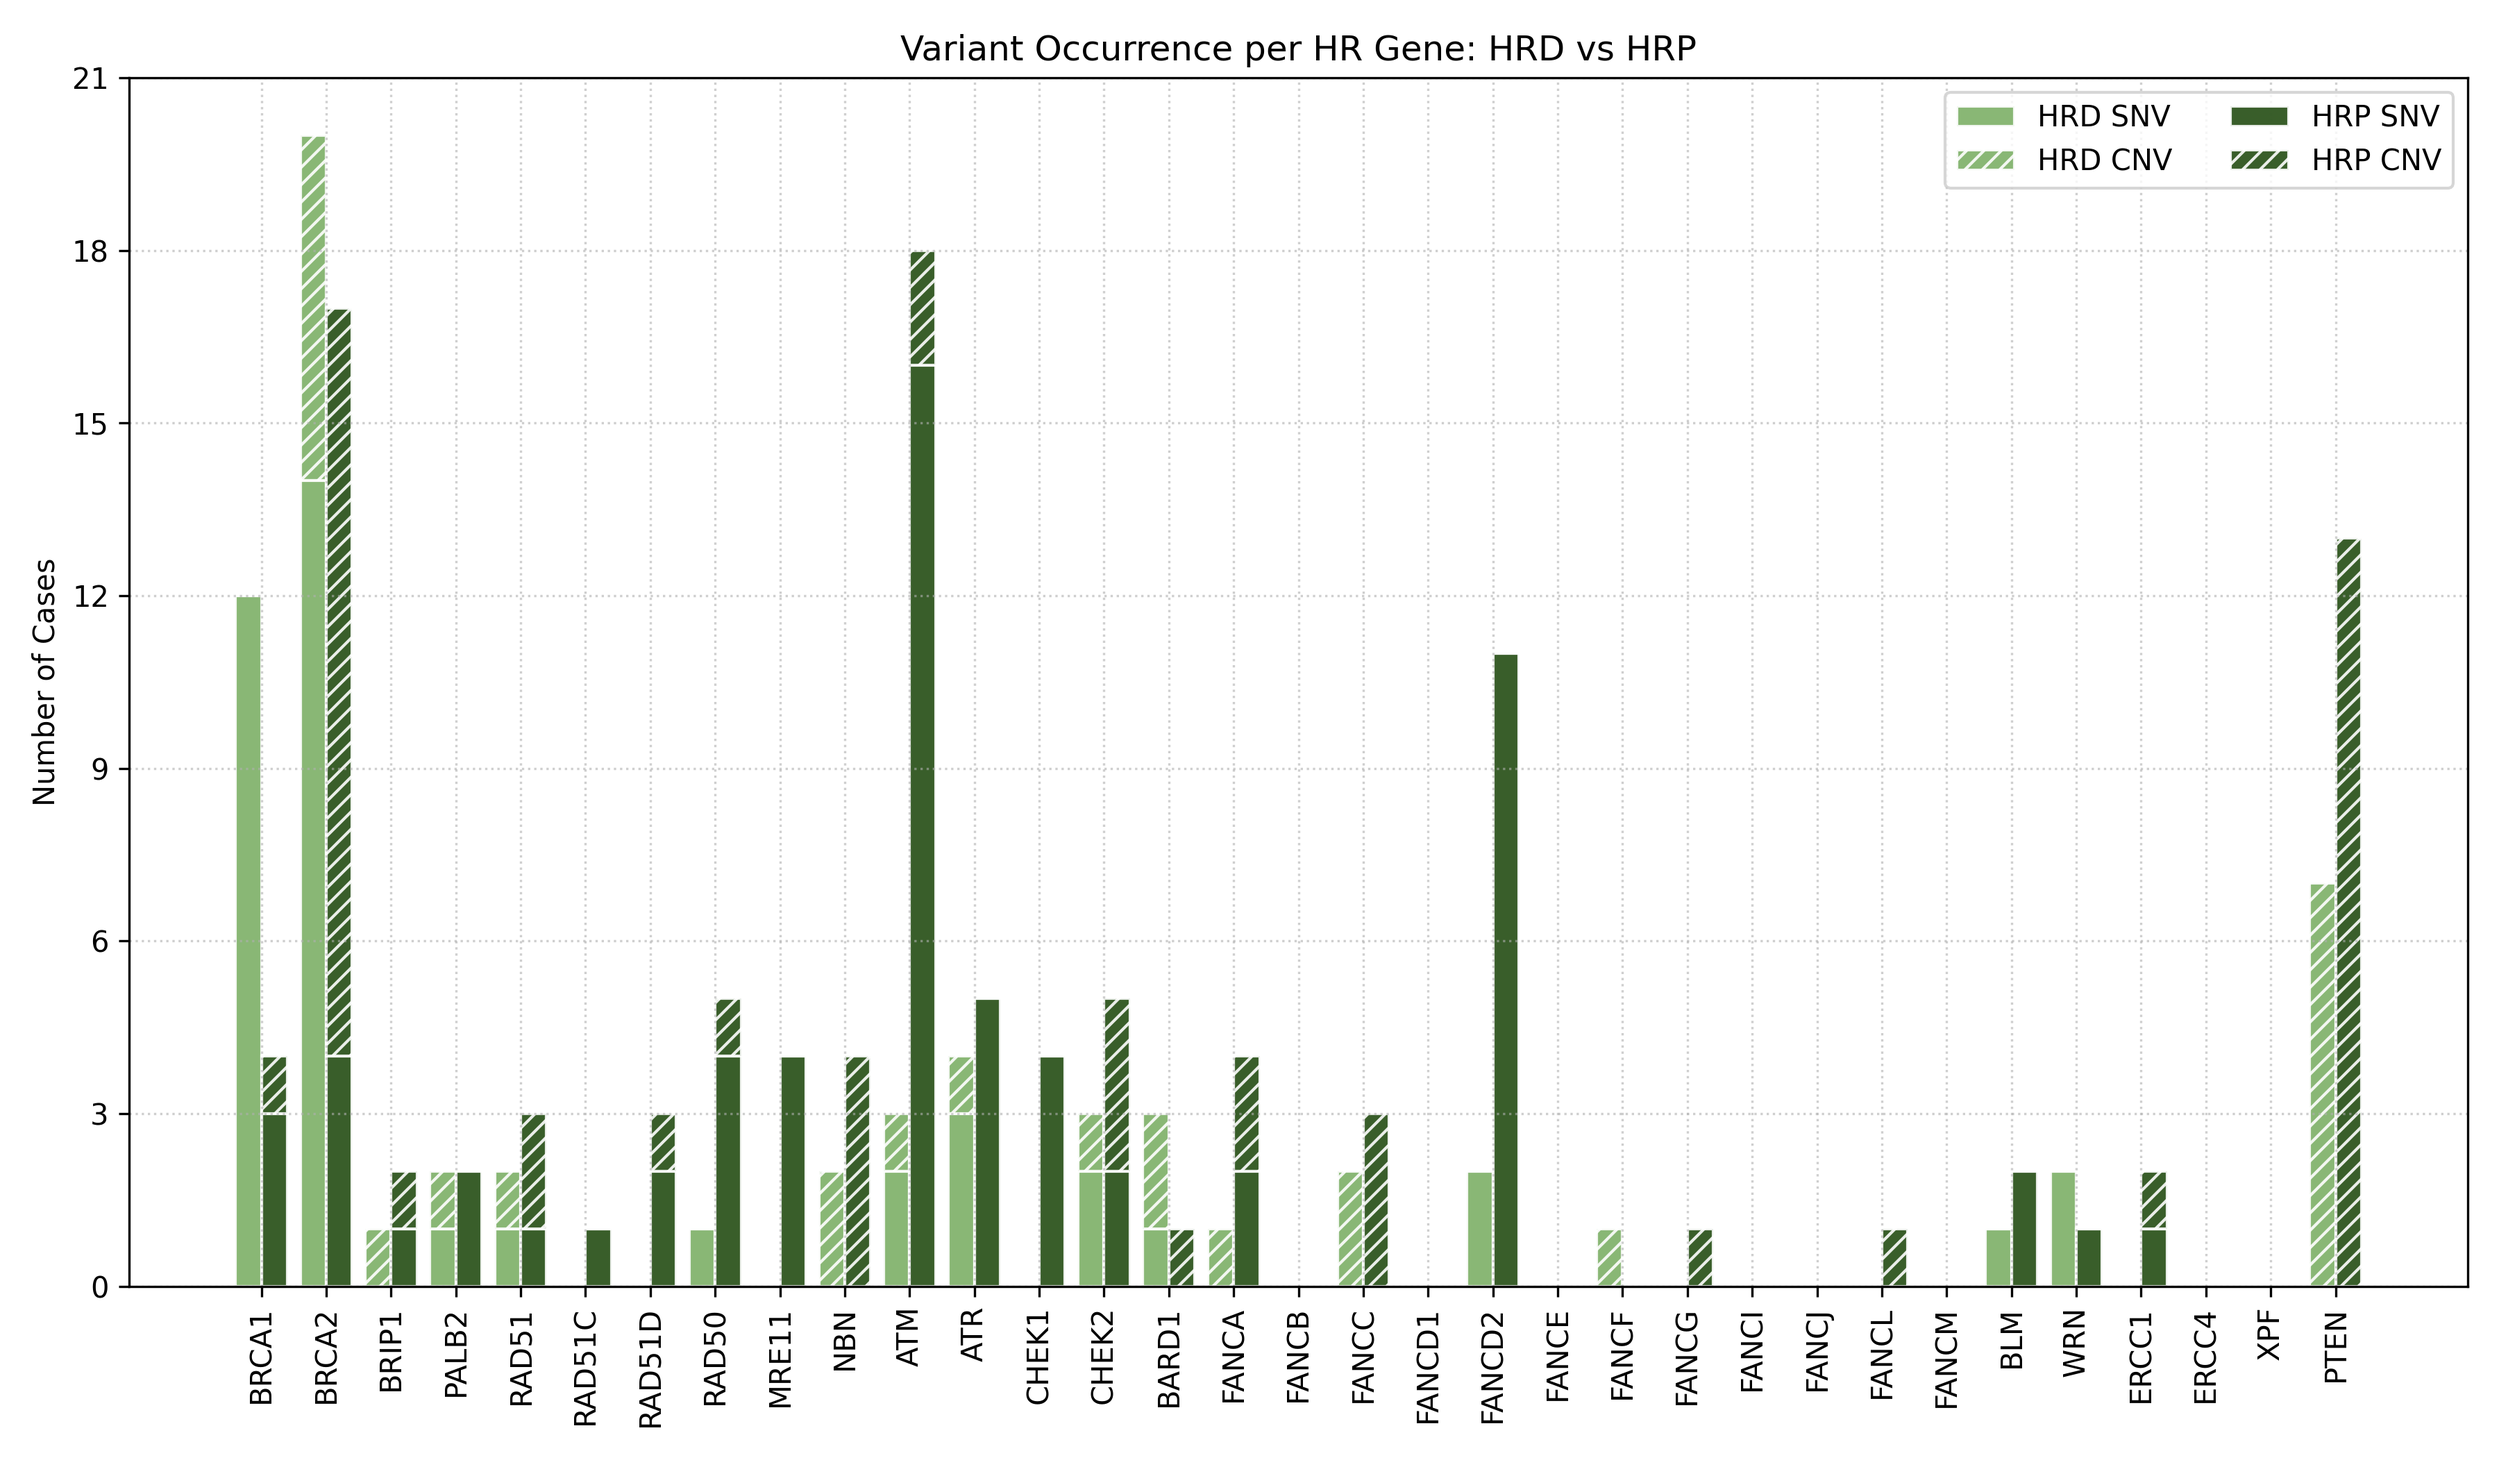
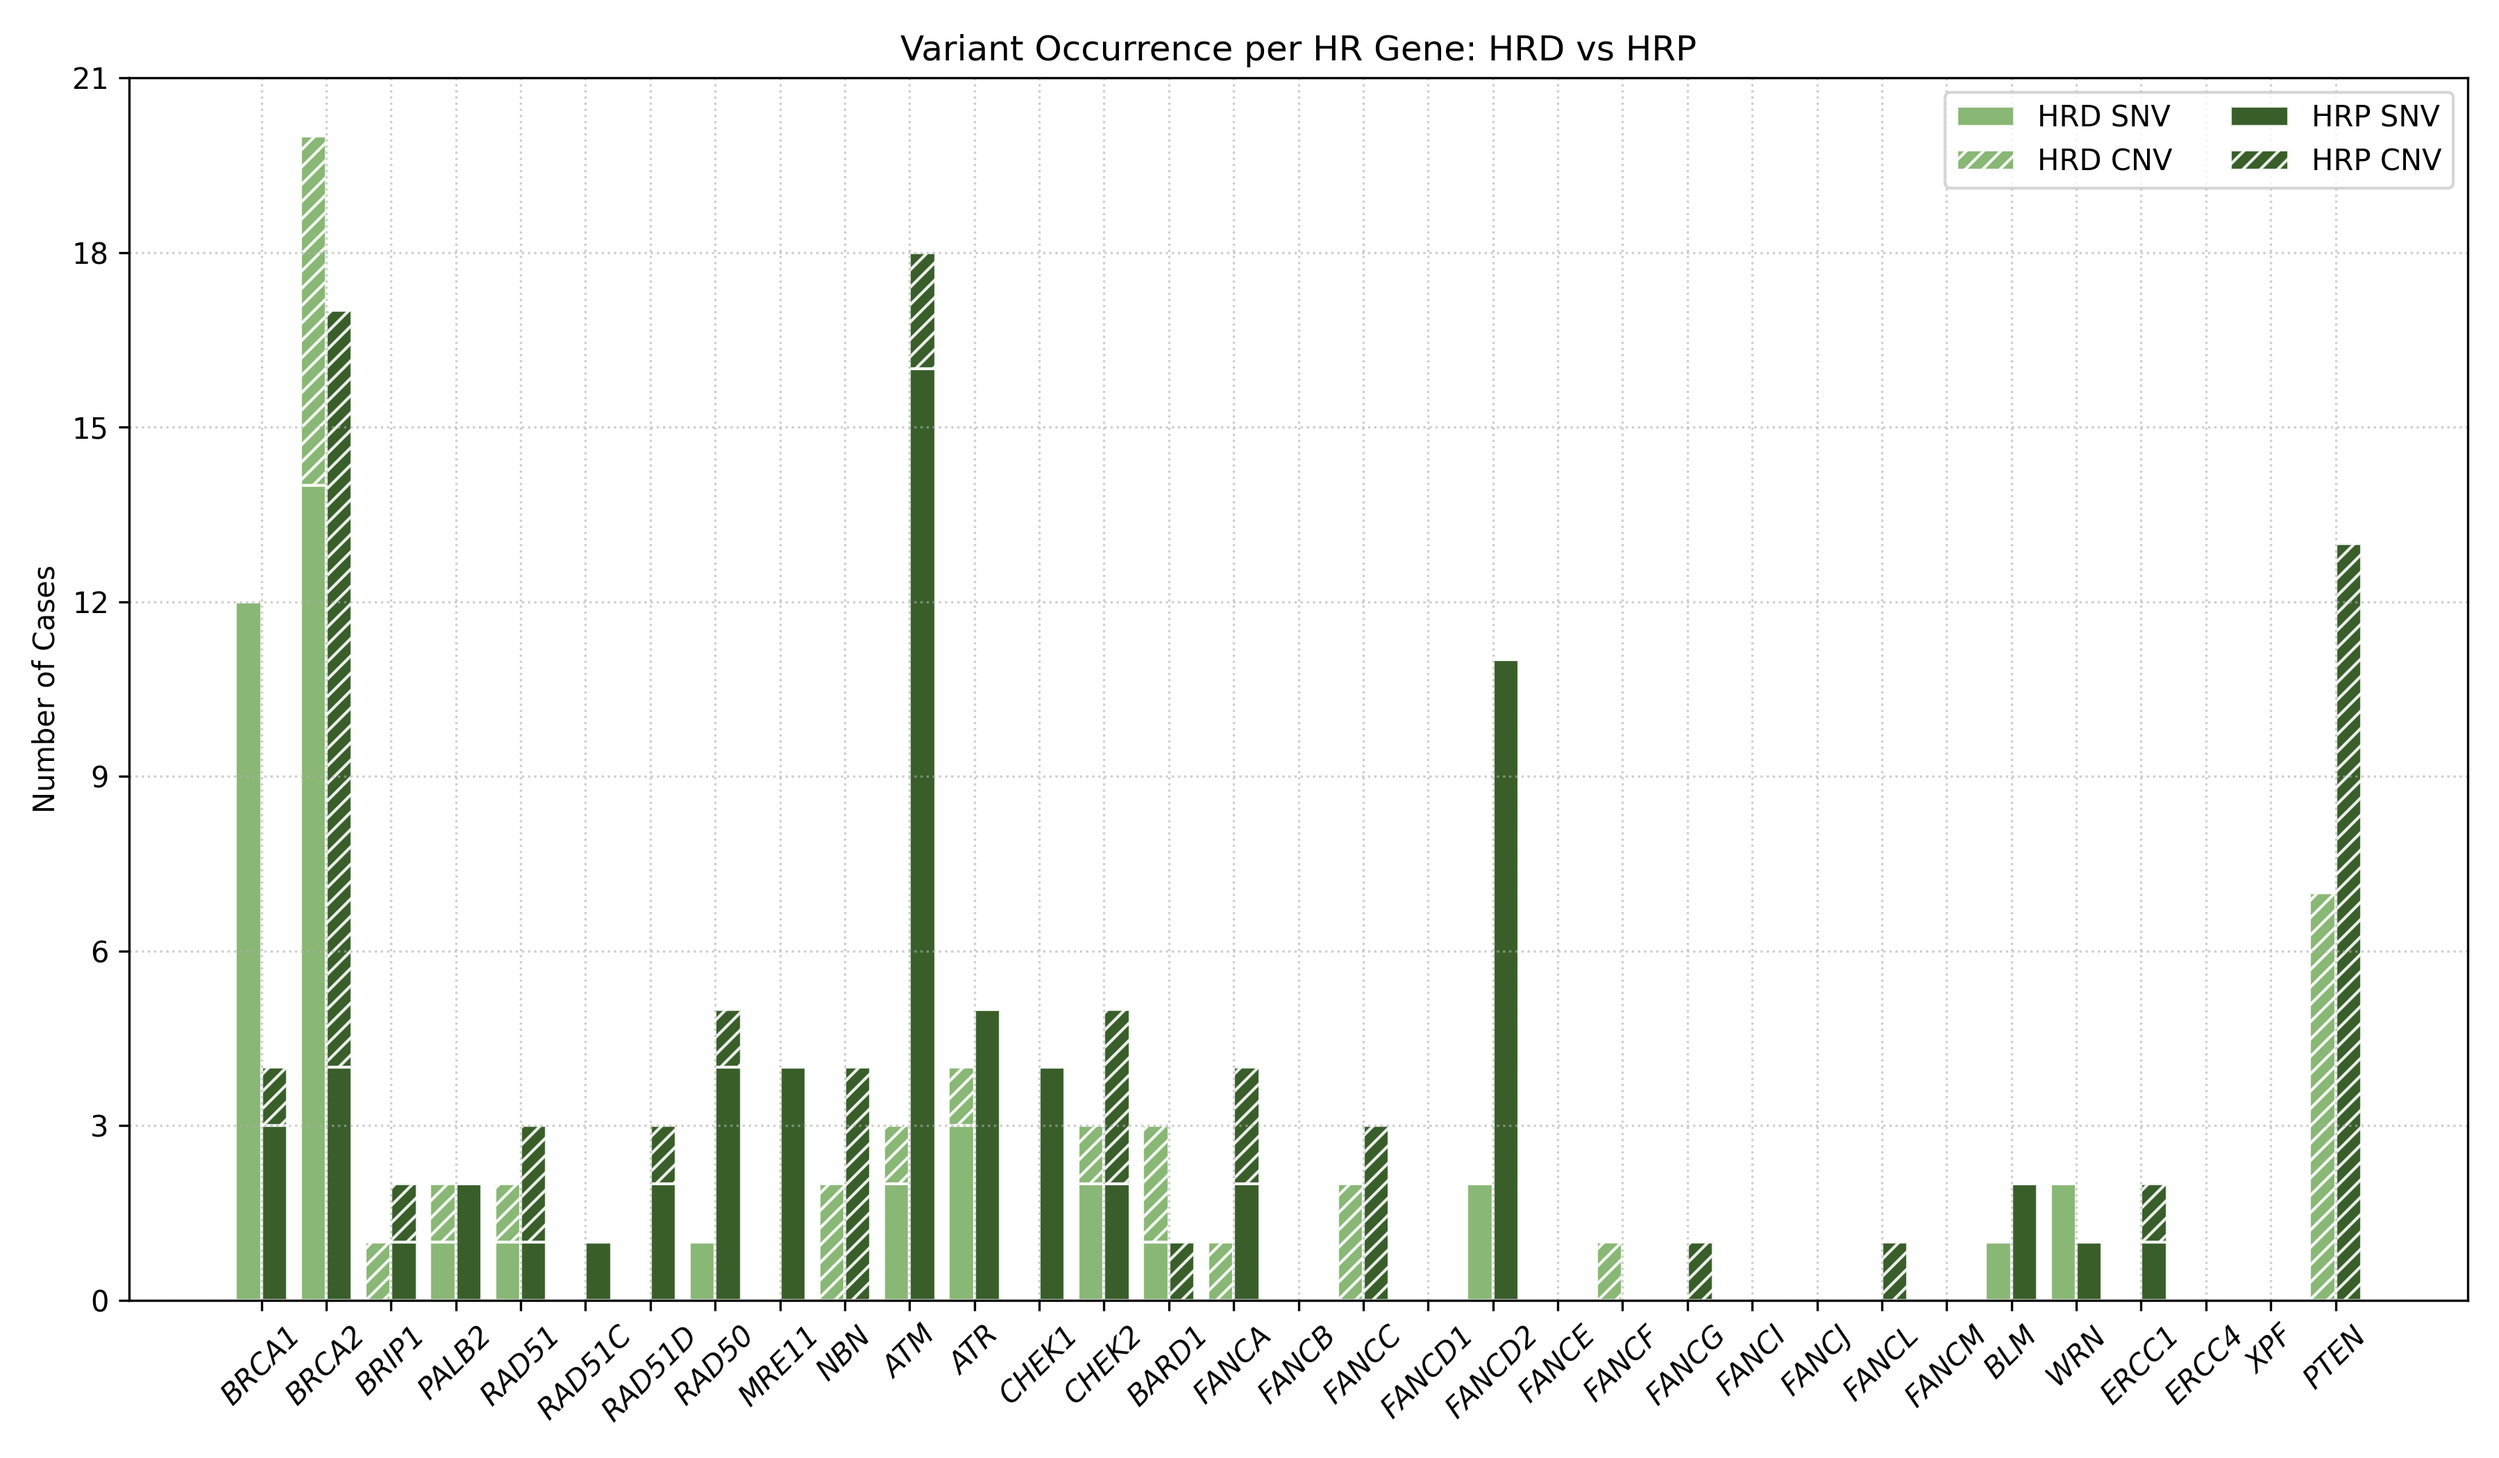
Format gene names

diff --git a/4_caseStudies/hr_genes/combine_gene_by_status.py b/4_caseStudies/hr_genes/combine_gene_by_status.py
@@ -39,7 +39,7 @@ def plot_combine(csv1, csv2, genes):
     plt.bar(x + 0.3, plot_df["SNV_HRP"], 0.6, color="#234c13ff", edgecolor="white", alpha=0.9, label="HRP SNV")
     plt.bar(x + 0.3, plot_df["CNV_HRP"], 0.6, bottom=plot_df["SNV_HRP"], color="#234c13ff", edgecolor="white", alpha=0.9, hatch="////", label="HRP CNV")
 
-    plt.xticks(x, genes, rotation=90)
+    plt.xticks(x, genes, rotation=45, fontstyle="italic")
     plt.ylabel("Number of Cases")
     plt.gca().yaxis.set_major_locator(plt.MaxNLocator(integer=True))
     plt.title("Variant Occurrence per HR Gene: HRD vs HRP")

diff --git a/4_caseStudies/hr_genes/nonHR_genes.py b/4_caseStudies/hr_genes/nonHR_genes.py
@@ -50,7 +50,7 @@ def plot_nonhr(csv_hrd, hr_genes, top_n=25):
    plt.bar(x, table["SNV"], 0.6, color="#7cb066ff", edgecolor="white", alpha=0.9, label="SNV")
    plt.bar(x, table["CNV"], 0.6, bottom=table["SNV"], color="#234c13ff", edgecolor="white", alpha=0.9,label="CNV")
    
-   plt.xticks(x, table["Gene"], rotation=90)
+   plt.xticks(x, table["Gene"], rotation=45, fontstyle="italic")
    plt.xlabel("Non-HR Gene")
    plt.ylabel("Number of Cases")
    plt.title(f"Top 25 Non‑HR Genes in HRD Cases Absent of HR Gene Variants")
